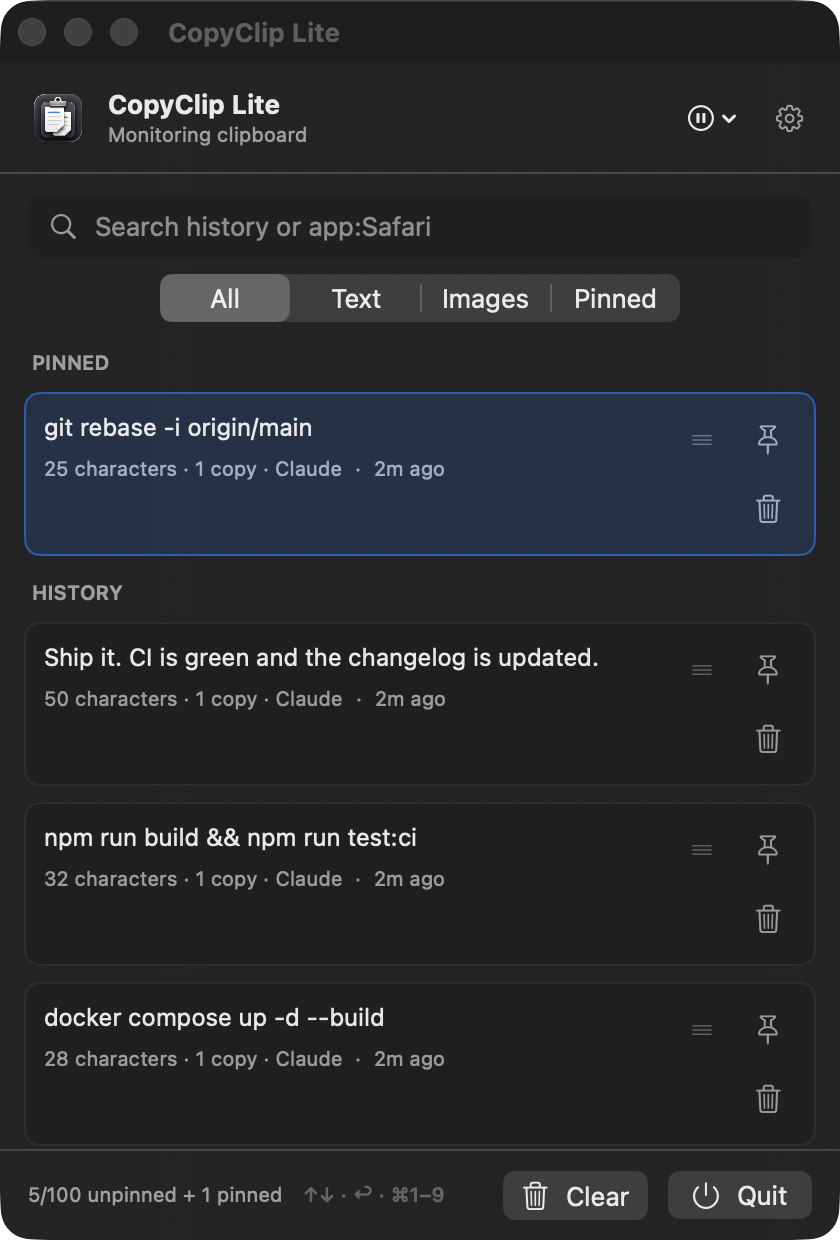
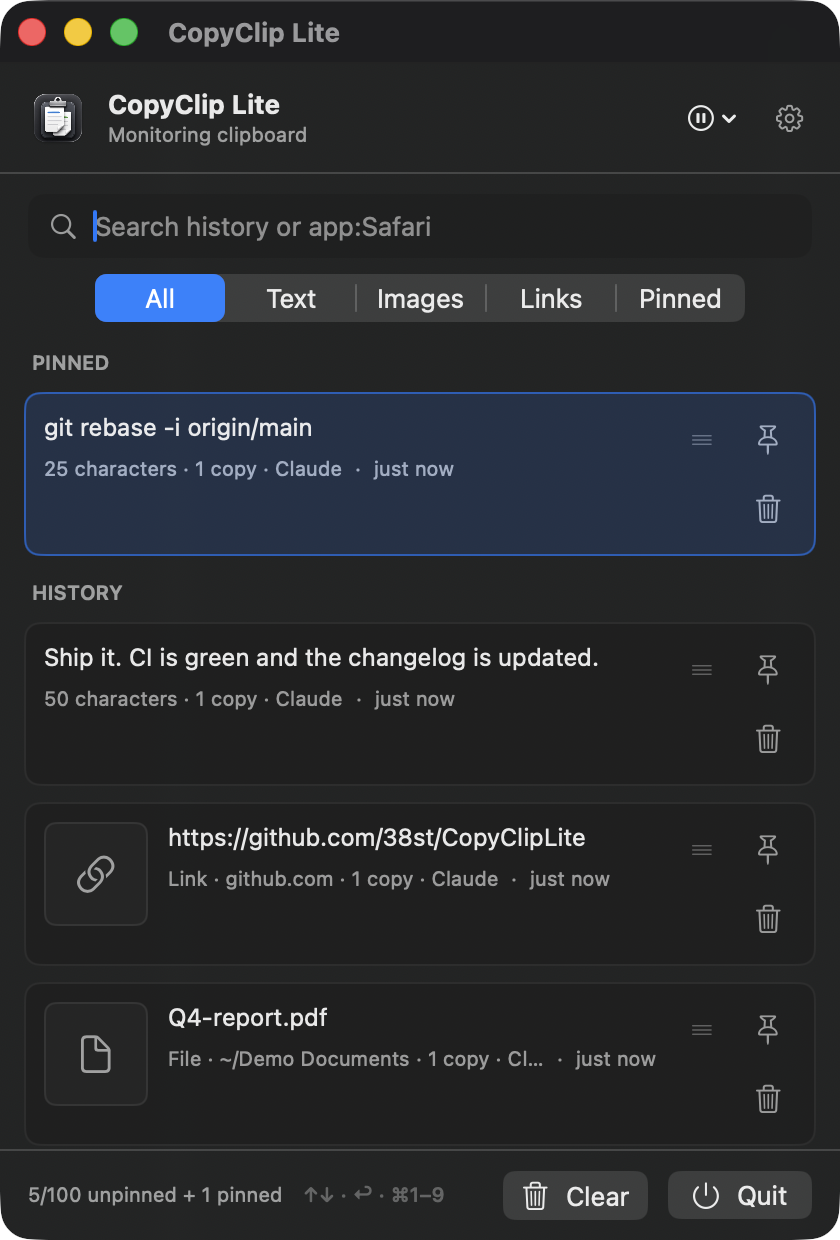
Show a file clip's folder instead of repeating its name
The row already uses the filename as the clip title, so a subtitle of
"File - Q4-report.pdf" said the same thing twice. Show the containing
folder instead, abbreviated to ~ under the home directory, which is the
part that actually distinguishes two files with the same name.

Also refreshes the README screenshot, which now shows the Links filter
alongside a captured file clip and link clip.

diff --git a/Sources/CopyClipLite/Models/ClipboardContent.swift b/Sources/CopyClipLite/Models/ClipboardContent.swift
@@ -29,12 +29,18 @@ struct ClipboardLinkContent: Hashable, Sendable {
         url.isFileURL ? url.path : url.absoluteString
     }
 
-    /// The filename for a file URL, or the host for a web link.
+    /// The containing folder for a file URL, or the host for a web link. The file's
+    /// own name is already the clip's title, so repeating it here would say nothing.
     var subtitle: String? {
-        if url.isFileURL {
-            return url.lastPathComponent.isEmpty ? nil : url.lastPathComponent
+        guard url.isFileURL else { return url.host }
+        let folder = url.deletingLastPathComponent().path
+        guard !folder.isEmpty, folder != "/" else { return folder.isEmpty ? nil : "/" }
+        let home = NSHomeDirectory()
+        if folder == home { return "~" }
+        if folder.hasPrefix(home + "/") {
+            return "~" + folder.dropFirst(home.count)
         }
-        return url.host
+        return folder
     }
 }
 

diff --git a/Tests/CopyClipLiteTests/ClipboardLinkClipTests.swift b/Tests/CopyClipLiteTests/ClipboardLinkClipTests.swift
@@ -18,7 +18,7 @@ final class ClipboardLinkClipTests: XCTestCase {
         XCTAssertTrue(link.isFileURL)
         XCTAssertEqual(link.url, fileURL)
         XCTAssertEqual(link.title, "quarterly-report.pdf")
-        XCTAssertEqual(link.subtitle, "quarterly-report.pdf")
+        XCTAssertEqual(link.subtitle, "/Users/someone/Documents")
         XCTAssertEqual(link.displayText, "/Users/someone/Documents/quarterly-report.pdf")
     }
 

diff --git a/README.md b/README.md
@@ -17,7 +17,7 @@ No account, no sync, no analytics — your clipboard never leaves your Mac.
 
 <br>
 
-<img src="docs/images/panel.png" width="420" alt="The CopyClip Lite panel showing a pinned clip above recent clipboard history, with a search field and All/Text/Images/Pinned filters">
+<img src="docs/images/panel.png" width="420" alt="The CopyClip Lite panel showing a pinned clip above recent history, including a link clip and a file clip, with All/Text/Images/Links/Pinned filters">
 
 </div>
 
